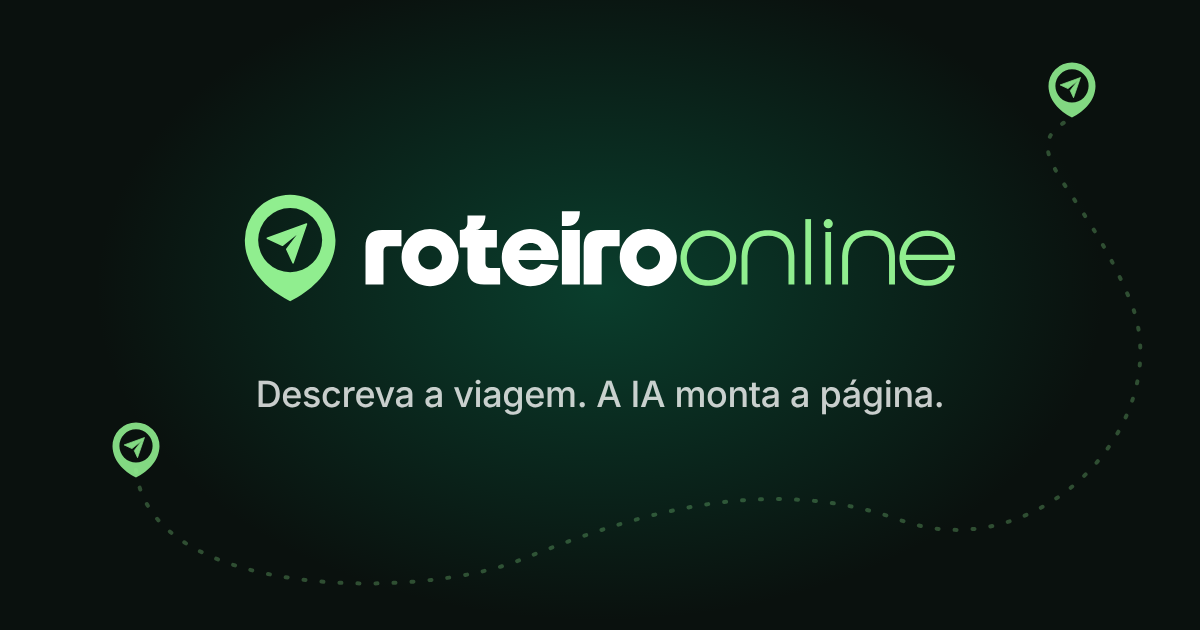
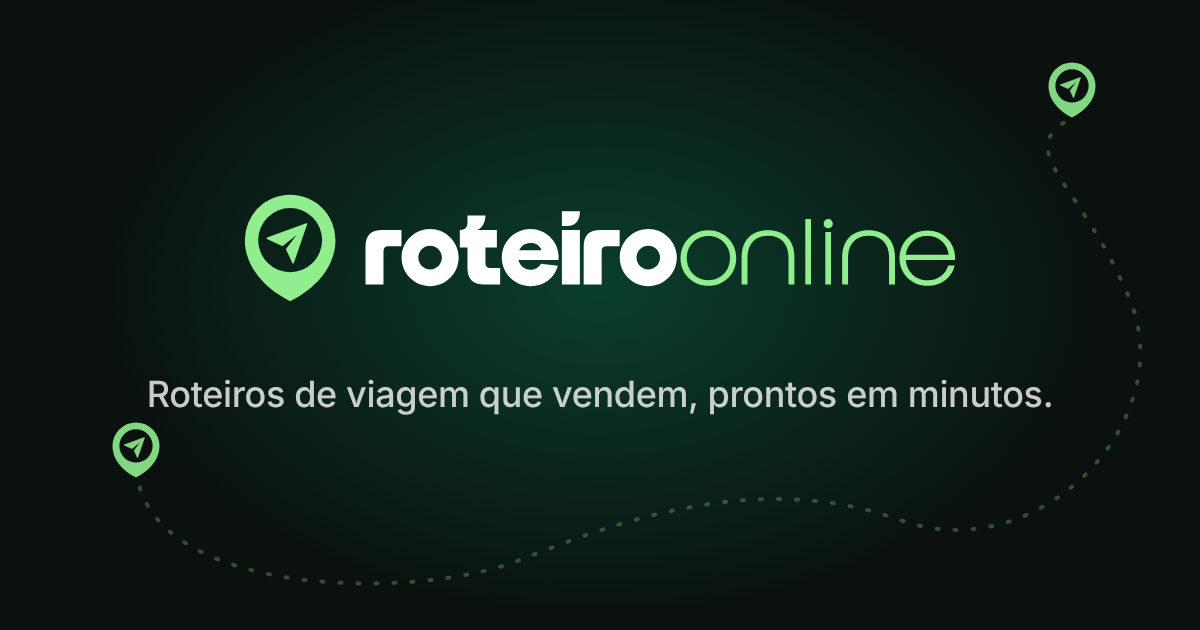
Compartilhamento: texto focado em facilidade e resultado
Claude-Session: https://claude.ai/code/session_01SKojrTaPmKzXxvqU6huDEE

Changed region(s): [[0.1233, 0.6032, 0.8633, 0.6635]]

diff --git a/docs/marca/roteiro-online/gerar_banner.js b/docs/marca/roteiro-online/gerar_banner.js
@@ -29,7 +29,7 @@ const svg = (f) => fs.readFileSync(path.join(dir, f), 'utf8').replace(/<\?xml[^>
         fill="none" stroke="${v.route}" stroke-opacity="${v.ro}" stroke-width="4" stroke-linecap="round" stroke-dasharray="2 16"/></svg>
       <div class="pinA">${pin}</div><div class="pinB">${pin}</div>
       <div class="logo">${logo}</div>
-      <div class="t">Descreva a viagem. A IA monta a página.</div>
+      <div class="t">Roteiros de viagem que vendem, prontos em minutos.</div>
     </div></body></html>`;
     for (const sc of [1, 2]) {
       const pg = await b.newPage({ viewport: { width: 1200, height: 630 }, deviceScaleFactor: sc });

diff --git a/docs/marca/roteiro-online/compartilhamento/SEO.md b/docs/marca/roteiro-online/compartilhamento/SEO.md
@@ -10,8 +10,11 @@ Onde configurar: painel do admin master, **Plataforma › Marca e SEO**.
 Os arquivos `@2x` têm 2400 × 1260 e servem para redes que aceitam imagem maior.
 O conteúdo fica centralizado, porque o WhatsApp às vezes corta as laterais.
 
-## Título do site (52 caracteres)
-Roteiro Online | Páginas de roteiro de viagem com IA
+## Título do site (51 caracteres)
+Roteiro Online | Crie roteiros de viagem que vendem
 
-## Descrição do site (148 caracteres)
-Descreva a viagem e a IA monta uma página de roteiro profissional em menos de 3 minutos. Ideal para agências: publique e envie o link pelo WhatsApp.
+## Descrição do site (149 caracteres)
+Monte páginas de roteiro bonitas e profissionais em minutos, sem saber design. Envie o link pelo WhatsApp e mostre ao cliente todo o valor da viagem.
+
+## Frase do banner
+Roteiros de viagem que vendem, prontos em minutos.
